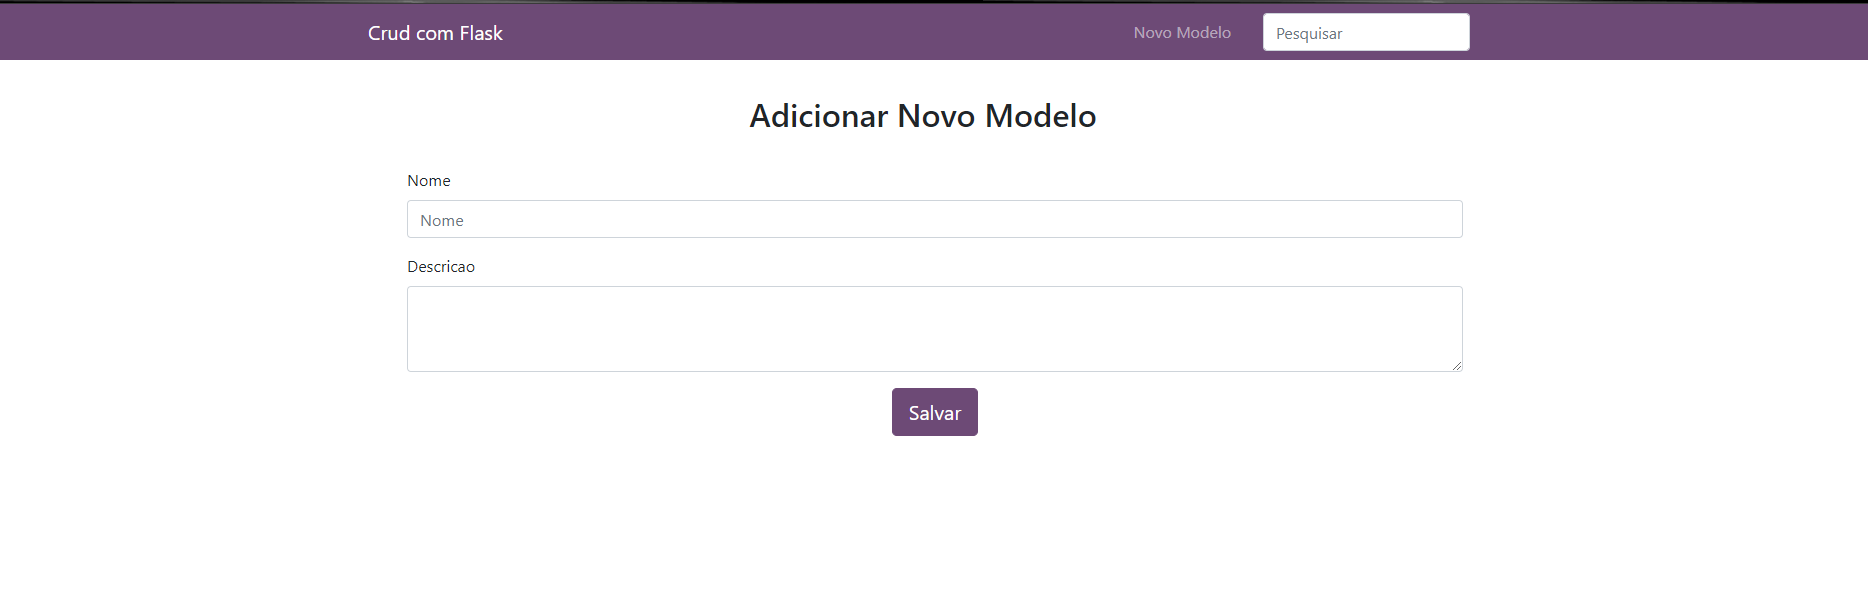
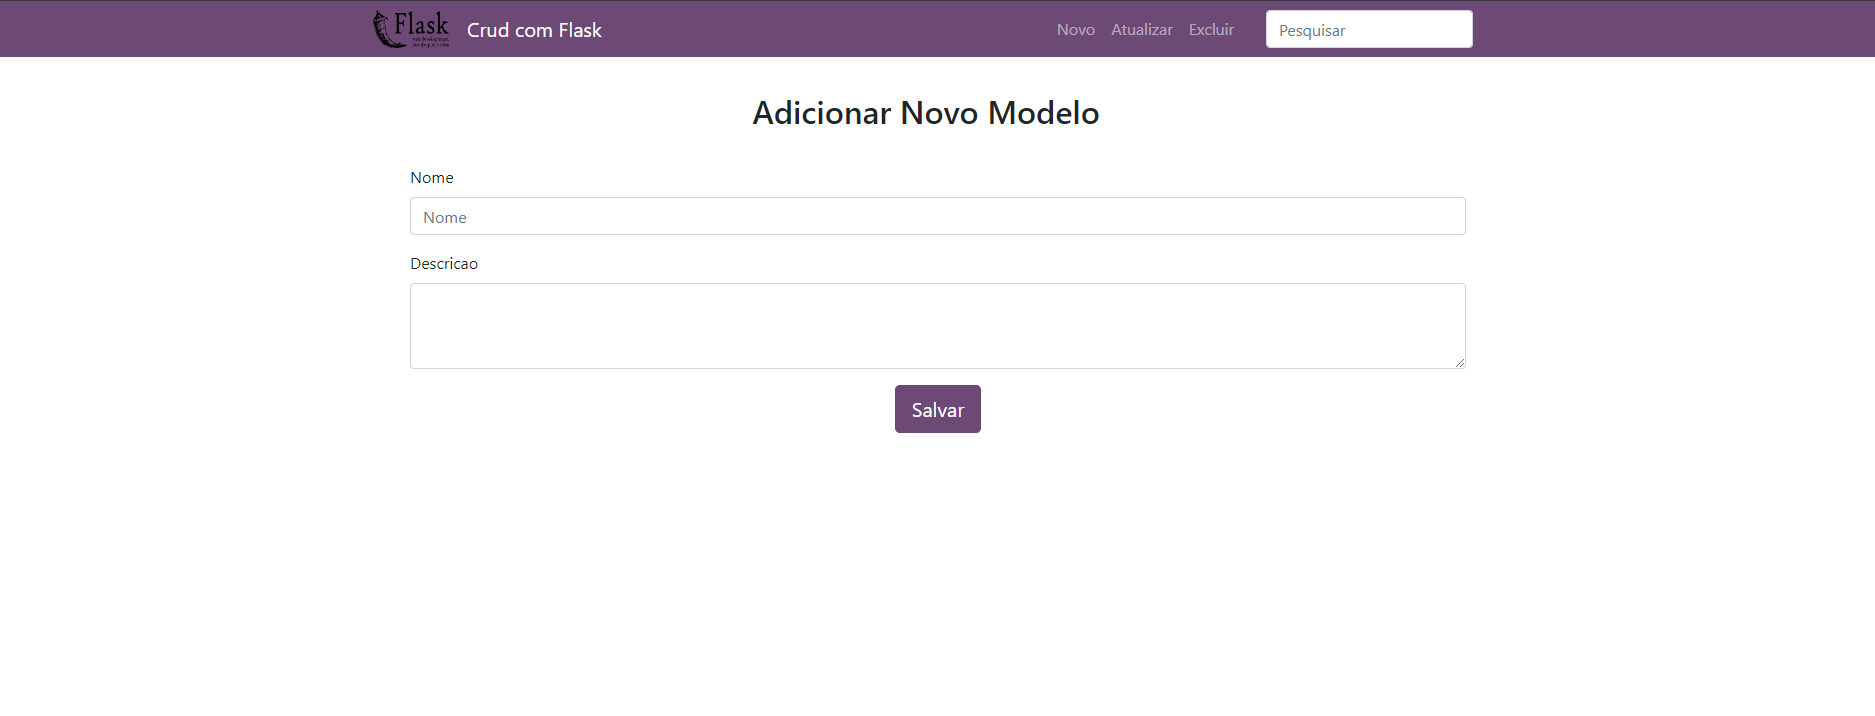
atualizando imagens no readme

diff --git a/README.md b/README.md
@@ -37,3 +37,6 @@ Esse exemplo básico foi feito com o intuito de iniciar os estudos com o framewo
 
 ### Tela de cadastro de novo modelo
 ![Screenshot](static/images/new_model.png)
+
+### Tela de cadastro de novo modelo
+![Screenshot](static/images/remove_model.png)
